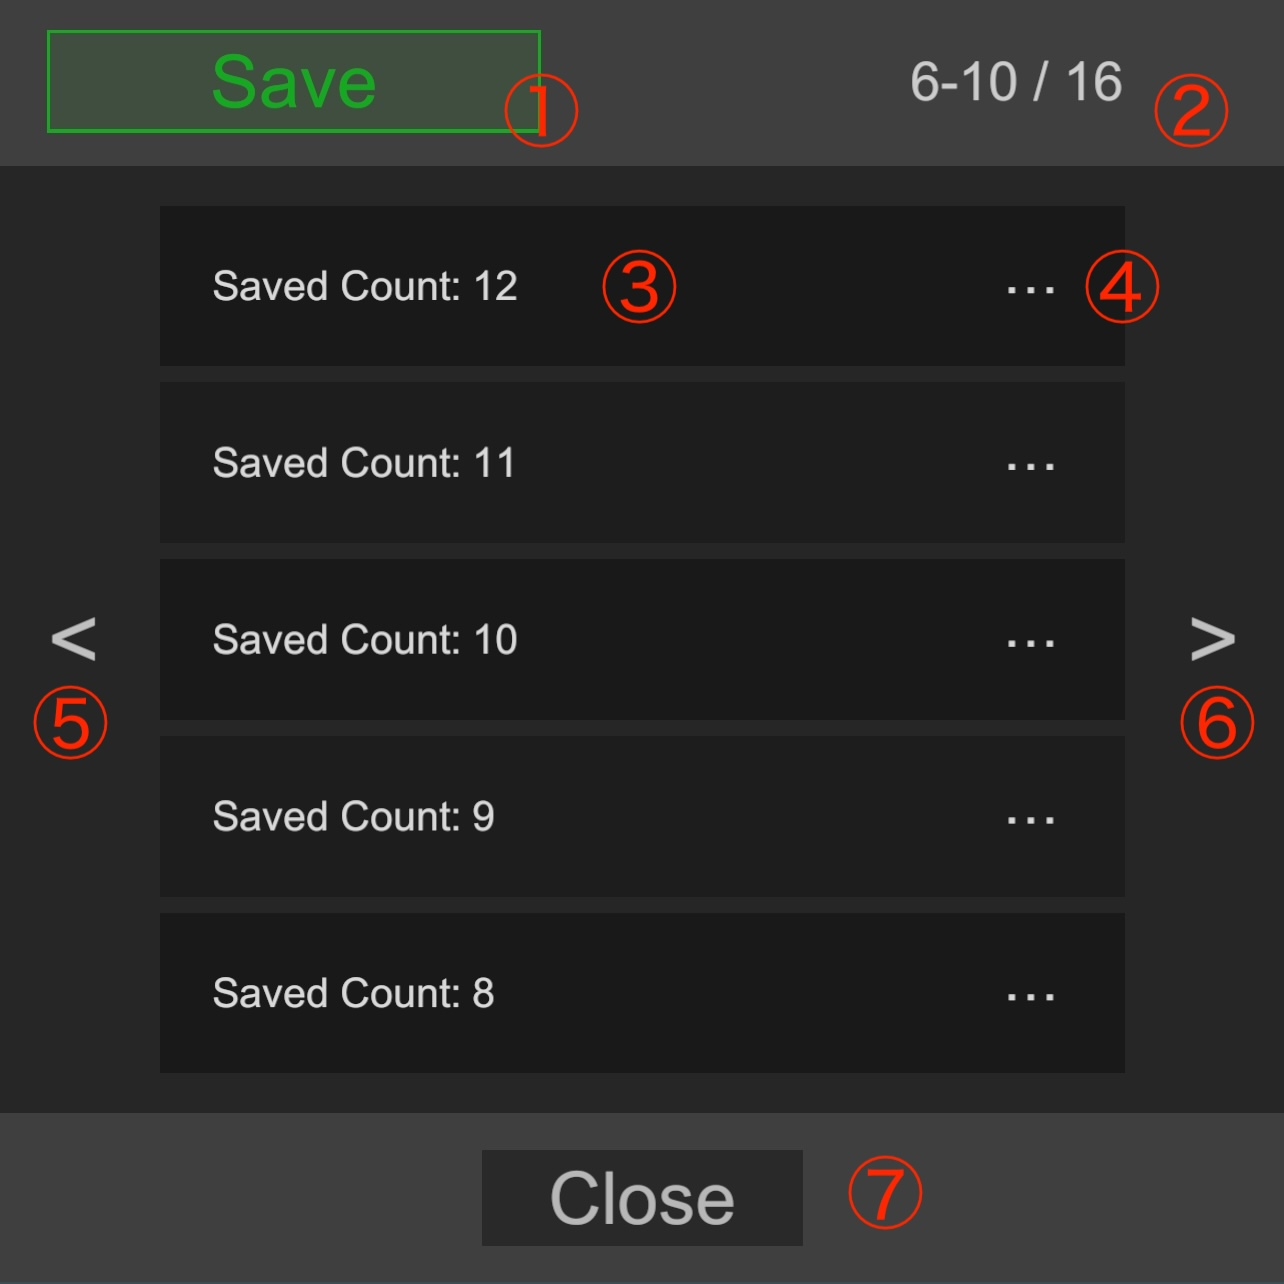
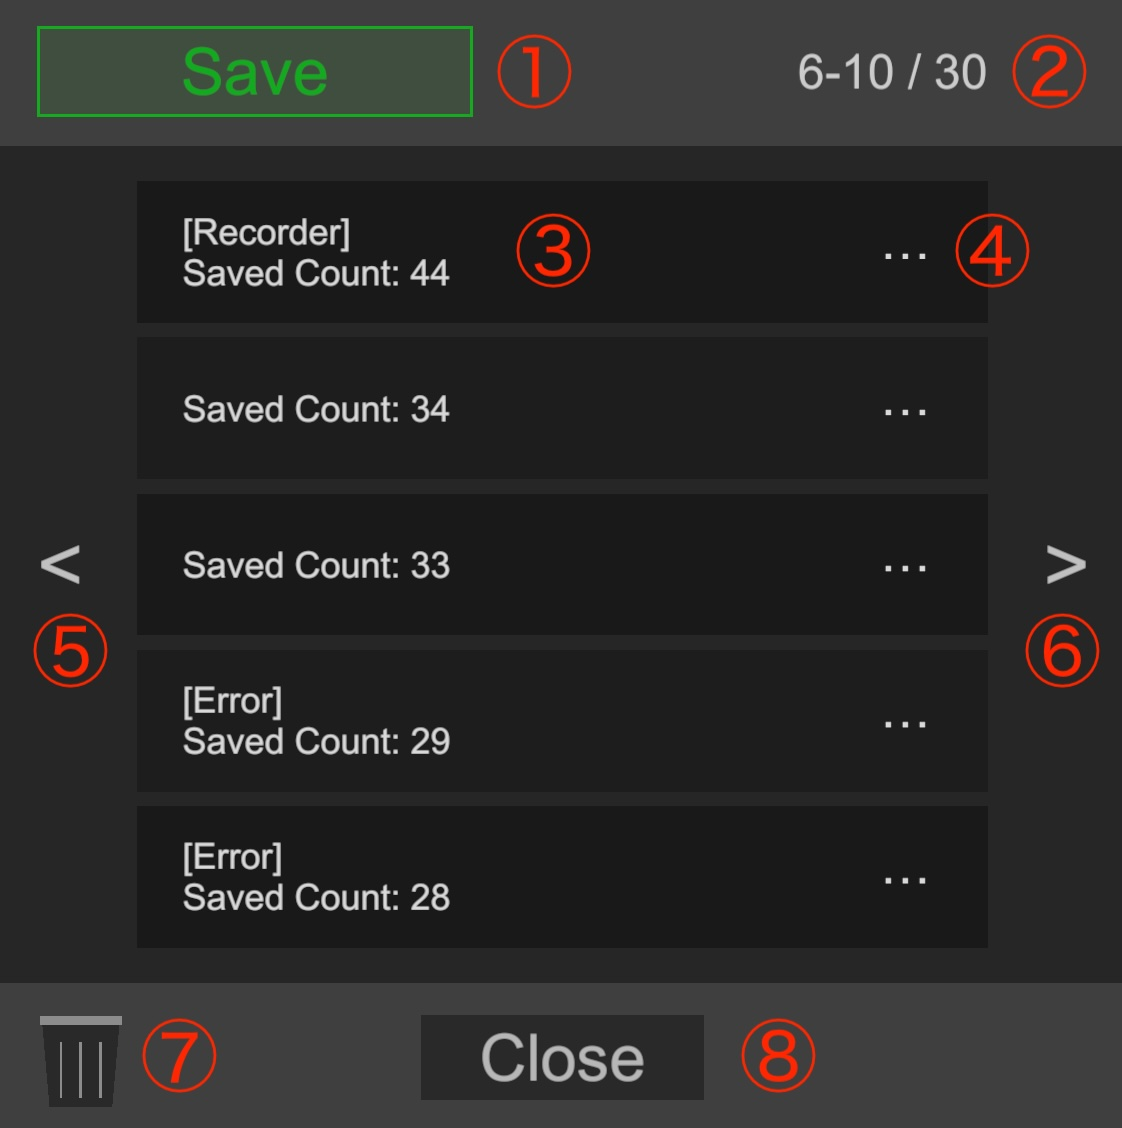
docs: update table entries and image for consistency

diff --git a/Docs/README_jp.md b/Docs/README_jp.md
@@ -164,15 +164,16 @@ void OnDialogButtonClicked()
 
 <img src="dialog1.jpg" width="400"/>
 
-| No | 説明           |
-|----|--------------|
-| ①  | ゲームデータを保存 |
-| ②  | 件数の表示        |
-| ③  | 保存したゲームデータ   |
-| ④  | 詳細を開く     |
-| ⑤  | 前のページへ       |
-| ⑥  | 次のページへ       |
-| ⑦  | 閉じる          |
+| No | 説明         |
+|----|------------|
+| ①  | ゲームデータを保存  |
+| ②  | 件数の表示      |
+| ③  | 保存したゲームデータ |
+| ④  | 詳細を開く      |
+| ⑤  | 前のページへ     |
+| ⑥  | 次のページへ     |
+| ⑦  | ゴミ箱        |
+| ⑧  | 閉じる        |
 
 ### 詳細
 

diff --git a/README.md b/README.md
@@ -177,7 +177,8 @@ Displays a list of saved history.
 | ④  | Open Details         |
 | ⑤  | Previous Page        |
 | ⑥  | Next Page            |
-| ⑦  | Close                |
+| ⑦  | Trash                |
+| ⑧  | Close                |
 
 ### Details
 
